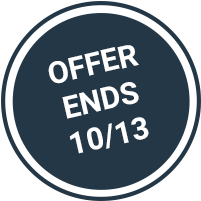
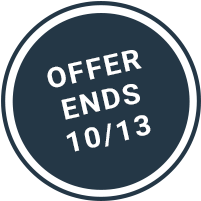
Some final polish and styling sugar

Changed region(s): [[0.209, 0.209, 0.7164, 0.4478], [0.2985, 0.3881, 0.7164, 0.597], [0.3284, 0.5672, 0.7463, 0.7761]]

diff --git a/script.js b/script.js
@@ -1,5 +1,6 @@
 // reveal exit pop-up on mouse event
 const mouseExit = (event) => {
+  // mouse conditions
   const intentToLeave = 
     !event.toElement 
     && !event.relatedTarget 
@@ -11,16 +12,15 @@ const mouseExit = (event) => {
     const modalElement = document.getElementById('popup');
     modalElement.classList.remove('visually-hidden');
   }
-
 };
 
+// time delay to fire
 setTimeout(() => {
   document.addEventListener('mouseout', mouseExit);
   document.addEventListener('keydown', closePop);
-
 }, 3000);
 
-// escape exit pop-up on icon/mask click event or esc key
+// escape on icon click, mask click or esc keypress
 const closePop = (event) => {
   const shouldClose =
   event.target.id === 'popup' ||

diff --git a/styles.css b/styles.css
@@ -428,10 +428,10 @@ img.logo {
 
   .offer-graphic-left {
     display: block;
-    width: 100px;
+    width: 88px;
     position: relative;
-    right: 135px;
-    top: 180px;
+    right: 140px;
+    top: 190px;
   }
 
   .content-container p {
@@ -442,8 +442,7 @@ img.logo {
 
 @media (max-width: 598px) {
   .offer-graphic-left {
-    right: 130px;
-    top: 115px;
+    top: 122px;
   }
 }
 

diff --git a/index.html b/index.html
@@ -28,7 +28,7 @@
         <li><a href="#">FAQ</a></li>
         <li><a href="#">Reviews</a></li>
         <li><a href="#">Contact</a></li>
-        <li><a href="#">Français</a></li>
+        <li><a href="#">🌐 Français</a></li>
       </ul>
       <ul class="nav-left">
         <li><a href="#">The Mattress</a></li>
